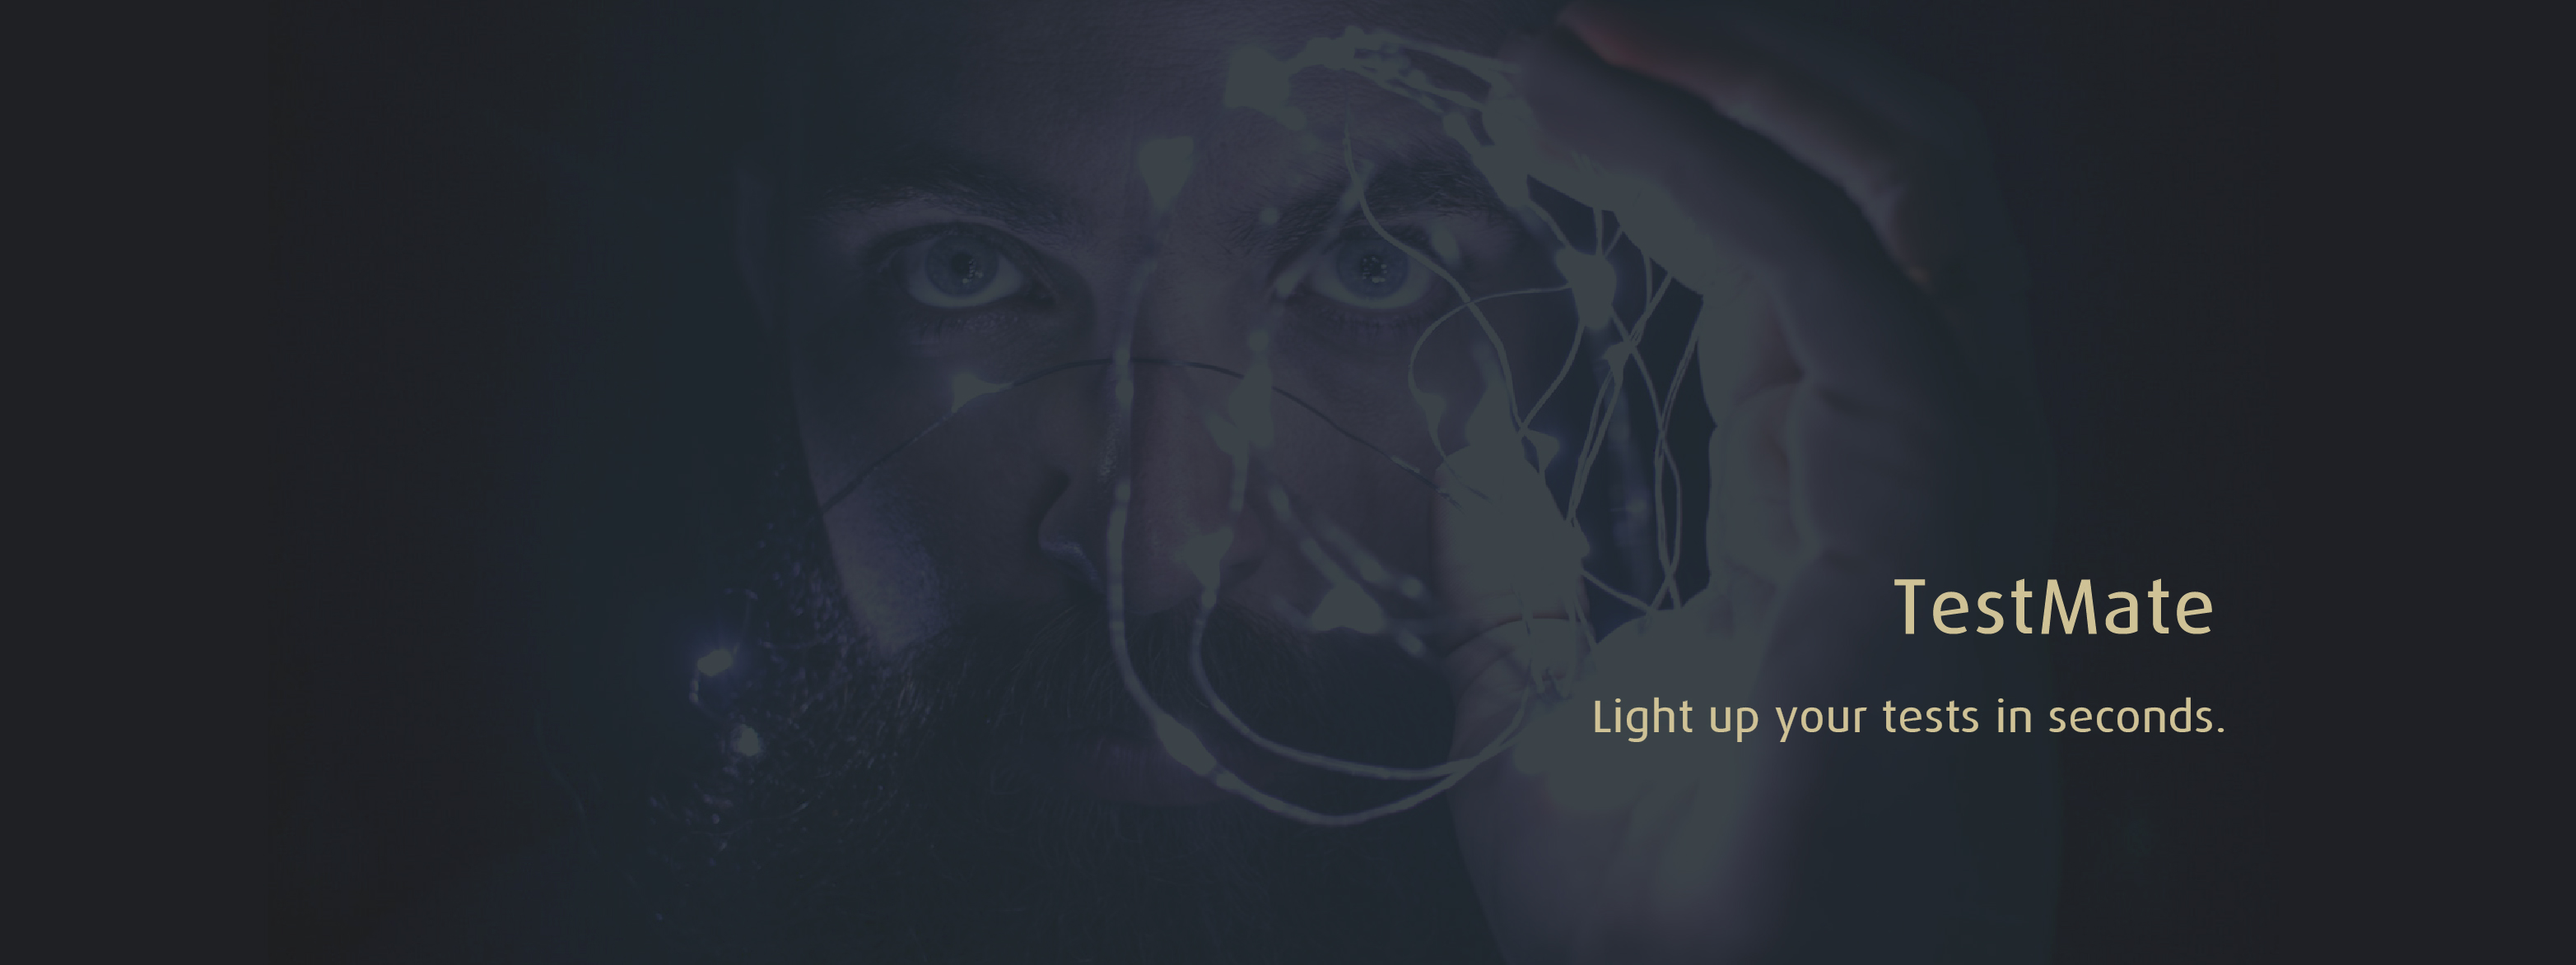
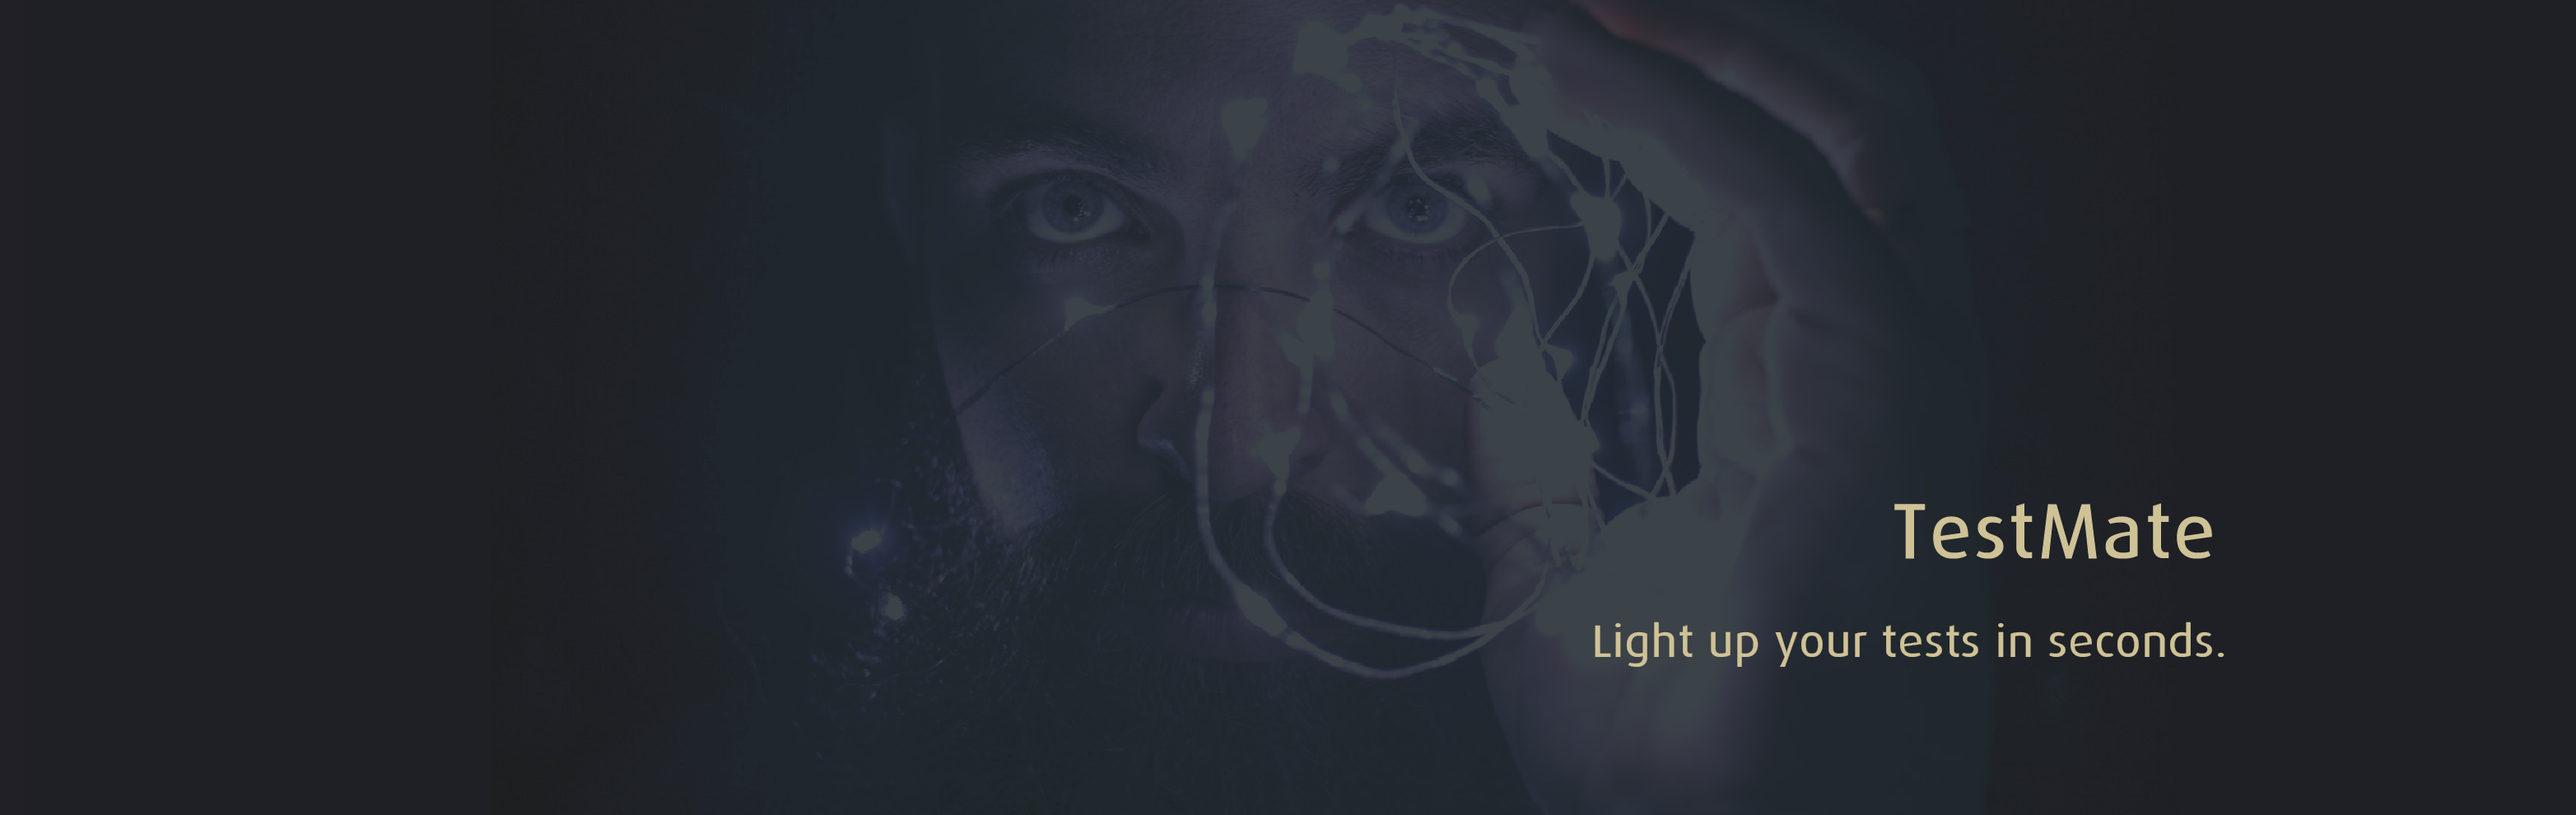
product page ongoing

diff --git a/css/style.css b/css/style.css
@@ -1061,12 +1061,6 @@ ul,li {
     position: relative;
 }
 
-@media (min-width: 1922px) {
-    .container-banner {
-        width: 1922px
-    }
-}
-
 @media (min-width: 3129px) {
     .container-banner {
         width: 3129px
